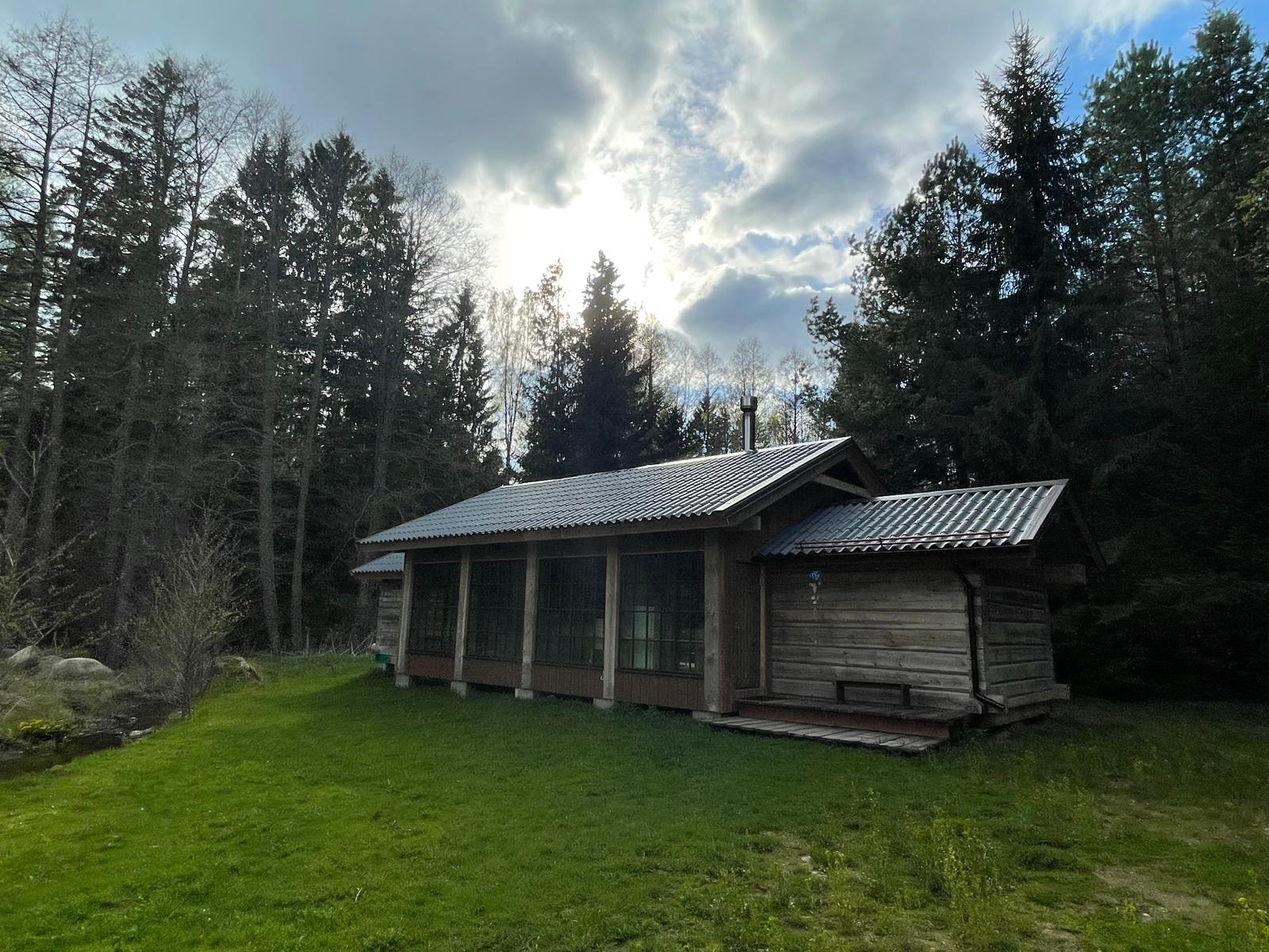
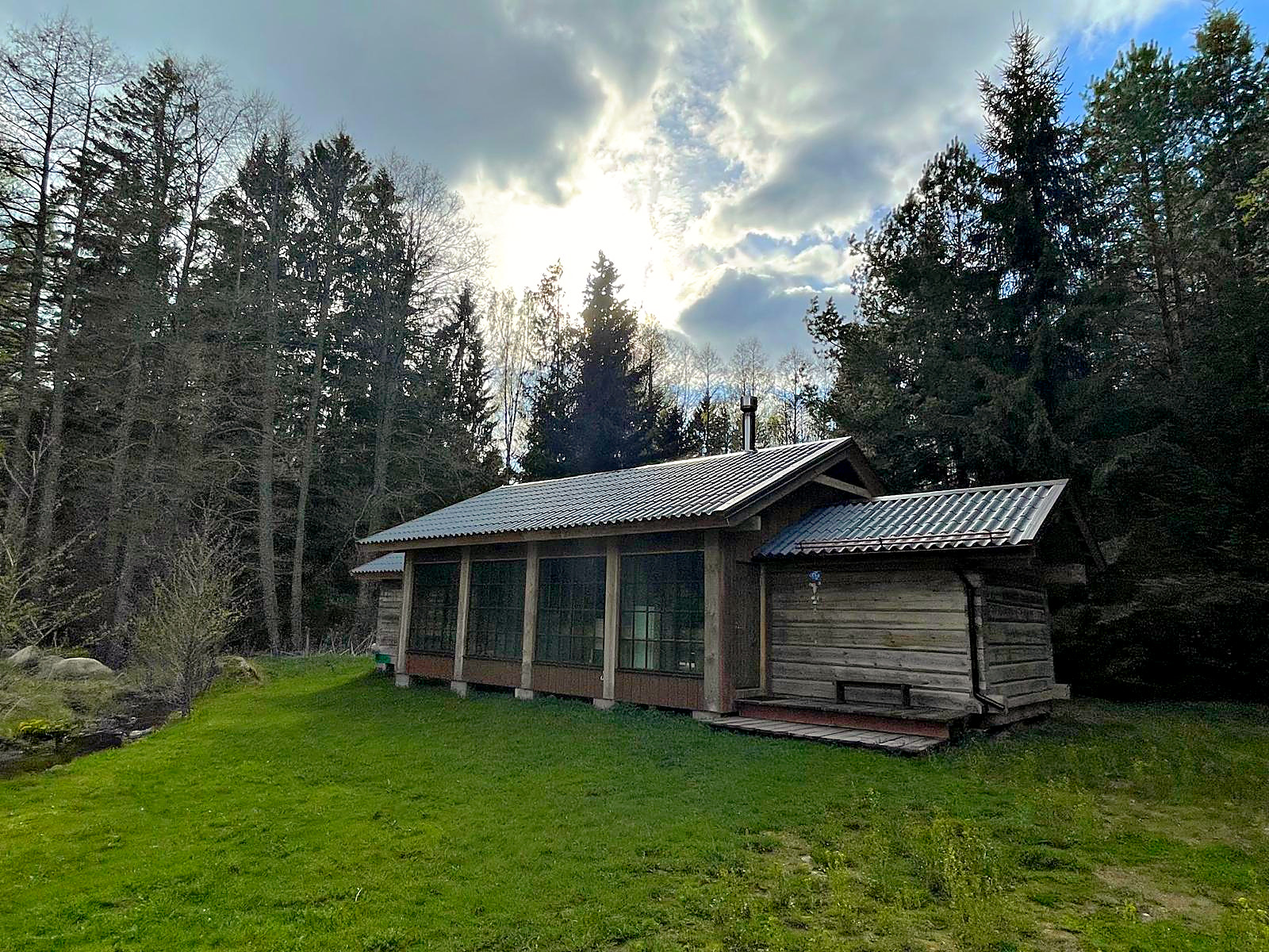
Make the Metsamaja photograph carry
Three things were flattening it, and only one was the file.

The photograph is shot into the sun, so the house — the subject — sat in shade against a
bright sky and read as one mass with the forest behind it. Corrected in three passes:
shadows and midtones lifted with the mask falling to zero above 0.72 so the sky never
moves, clarity applied over the same range to separate the timber from the trees, and
contrast added in the lower half only. Warmed slightly against the cool overcast cast.
The house region's median goes from 0.172 to 0.218.

A highlight knee runs LAST, after saturation and sharpening. Those were the steps actually
pushing pixels over, so compressing before them protected nothing — my first attempt
doubled the blown area while claiming to guard it.

And the band laid a 10-40% gradient over every house photograph, with the heavy end
exactly where the house stands. The text lives in its own column here, so that was
atmosphere, not legibility. Now 6-22%.

Also: the Estonia icon was letterboxed. Estonia is half again as wide as it is tall, and a
square viewBox rendered it ~30% shorter than its neighbours, which is why it read as a
dark blob rather than a country. Sized to its own proportions now.

Claude-Session: https://claude.ai/code/session_01KzdnMRxX6YPVVi4mybrAos

diff --git a/components/SocialRow.tsx b/components/SocialRow.tsx
@@ -32,7 +32,11 @@ export const SOCIAL_ICONS = {
    * flat by an equirectangular projection.
    */
   maps: (s: number) => (
-    <svg width={s} height={s} viewBox="-1 -1 26 18" fill="currentColor" aria-hidden="true">
+    // Estonia is half again as wide as it is tall, so a square box letterboxed it: the
+    // shape rendered ~30% shorter than its neighbours and read as the runt of the row.
+    // Sized to its own proportions instead, it carries the same weight as the others.
+    <svg width={Math.round(s * 1.22)} height={Math.round(s * 0.85)}
+         viewBox="-1 -1 26 18" fill="currentColor" aria-hidden="true">
       <path d="M6.4 5.4 6.7 3.4 10.9 2.3 14.2 1.4 17.5 2.1 22.9 2.3 23.6 3.6 21.2 7.0 20.8 11.2 21.5 13.3 17.4 15.3 13.2 13.4 10.6 14.1 10.5 10.6 7.8 9.9 6.7 7.6Z" />
       <ellipse cx="3.6" cy="9.9" rx="2.6" ry="1.7" />
       <ellipse cx="4.1" cy="5.9" rx="1.5" ry="0.85" />

diff --git a/app/globals.css b/app/globals.css
@@ -729,9 +729,14 @@ nav.nav-scrolled .nav-lang-trigger { text-shadow: none; }
   overflow: hidden;
   min-height: 340px;
 }
+/*
+ * Lightened from 10-40%. The heavy end of that gradient sat exactly where each house
+ * stands in its photograph, so the subject was the most darkened part of the frame. The
+ * text lives in its own column here, so this is atmosphere, not legibility.
+ */
 .house-band-overlay {
   position: absolute; inset: 0;
-  background: linear-gradient(180deg, rgba(26,32,16,0.10) 0%, rgba(26,32,16,0.40) 100%);
+  background: linear-gradient(180deg, rgba(26,32,16,0.06) 0%, rgba(26,32,16,0.22) 100%);
   z-index: 1;
 }
 .house-band-content {
